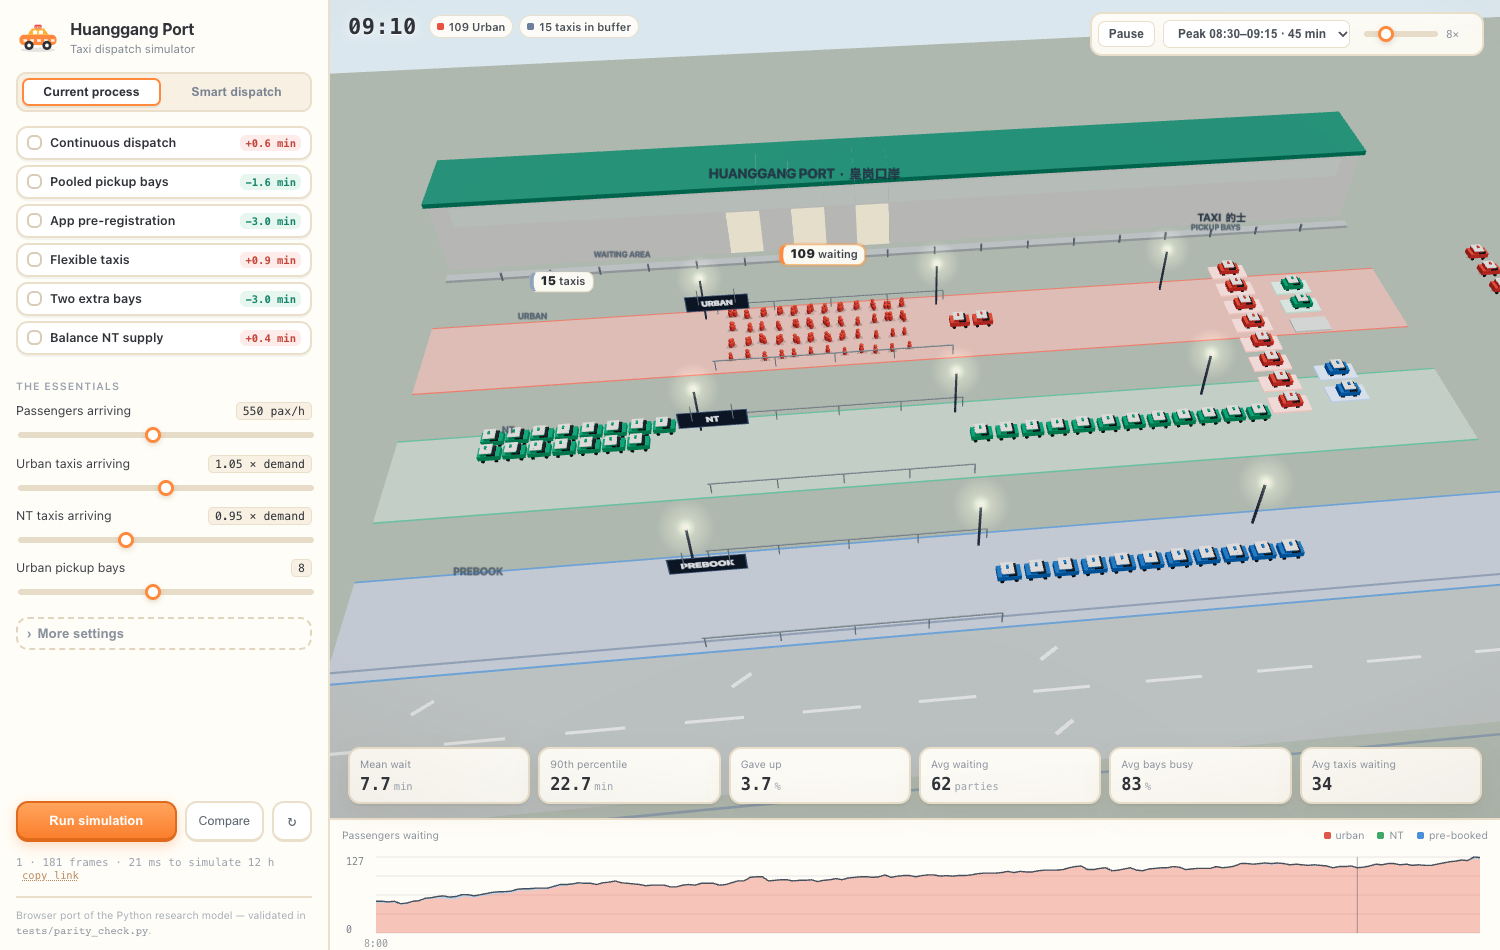
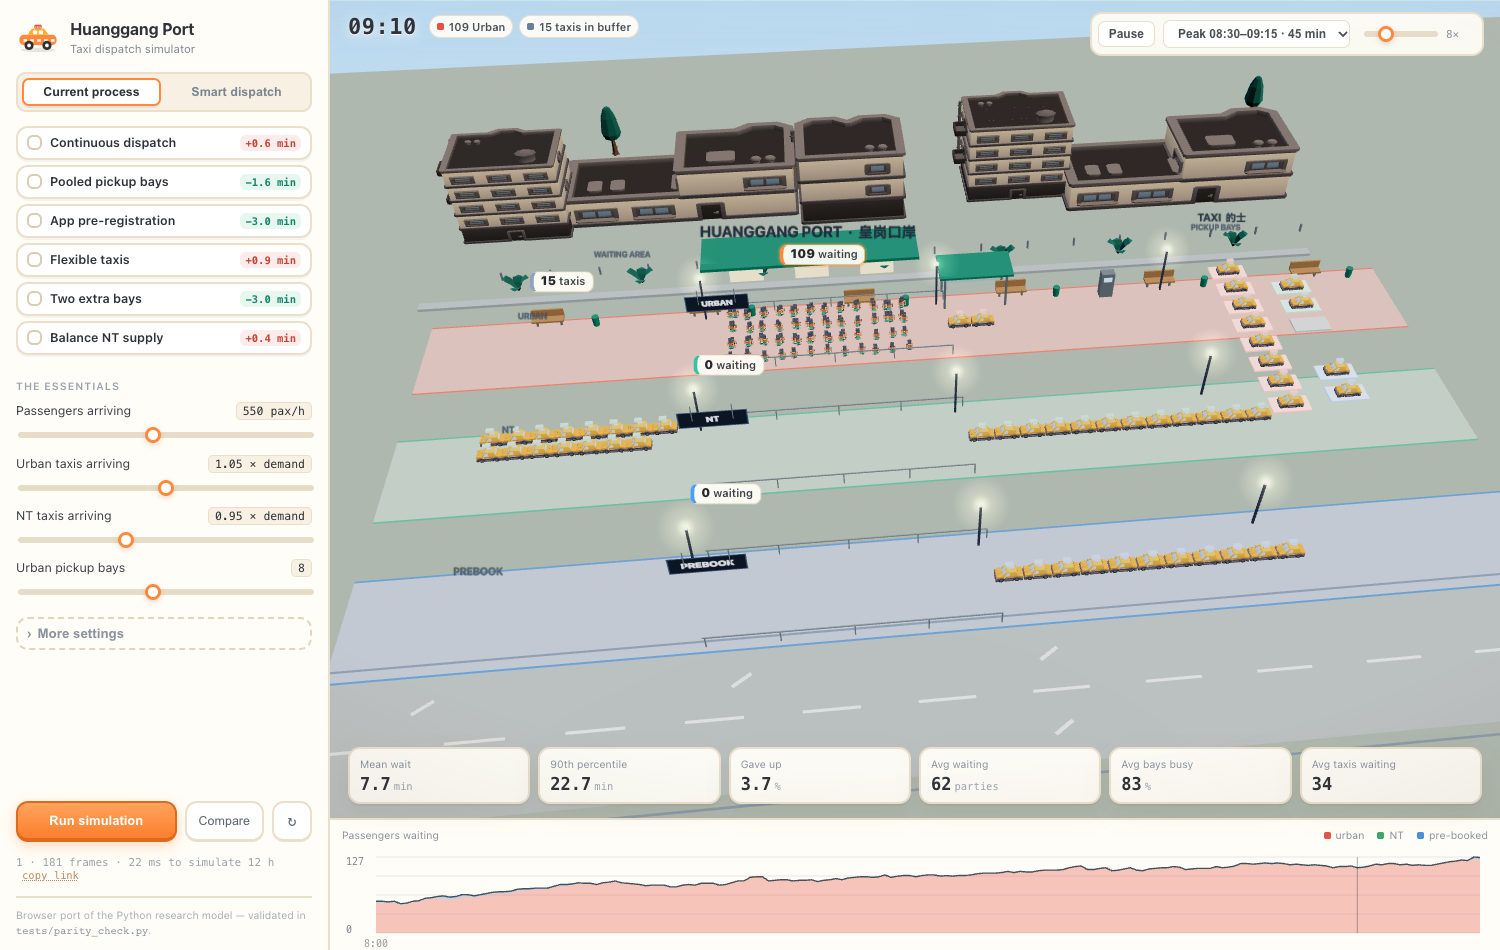
Sky, street furniture, taxi class signs, toy walk
- gradient sky + drifting cloud billboards
- benches, bins, waiting shelter and a ticket machine along the terminal
- coloured roof sign per taxi class (the model itself is one colour)
- passengers get a bob + sway + forward lean instead of sliding
- portrait camera pulled back; docs screenshot refreshed

diff --git a/web/js/scene.js b/web/js/scene.js
@@ -16,7 +16,7 @@ import {
   CLS, CLS_COLOR, LANES, EXIT_X, TAXI, TERMINAL,
   bufferPos, standPos, bayPos, queuePos, baySlots, doorPos,
 } from "./layout.js";
-import { glowTexture, signTexture } from "./textures.js";
+import { glowTexture, signTexture, daySkyTexture, cloudTexture } from "./textures.js";
 import { instances } from "./assets.js";
 
 const TAXI_CAP = 72;
@@ -108,8 +108,9 @@ export class Scene3D {
     this.renderer.toneMappingExposure = 1.08;
 
     this.scene = new THREE.Scene();
-    this.scene.background = new THREE.Color(0xdbe7ee);
-    this.scene.fog = new THREE.Fog(0xdbe7ee, 230, 340);
+    this.scene.background = daySkyTexture();
+    this.scene.fog = new THREE.Fog(0xe3eef5, 190, 320);
+    this.clouds = [];
 
     this.camera = new THREE.PerspectiveCamera(40, 1, 0.1, 400);
     this.target = new THREE.Vector3(22, 1.2, 11);
@@ -183,6 +184,17 @@ export class Scene3D {
     this.paxInst = A?.people ? A.people.map((p) => instances(p, PAX_CAP, this.root)) : null;
 
     this.taxiShadow = this._pool(this.geo.shadow, this.mat.shadow, TAXI_CAP);
+    // coloured roof sign: carries the class colour now that the taxi is a model
+    this.signMesh = new THREE.InstancedMesh(
+      new THREE.BoxGeometry(0.34, 0.11, 0.2),
+      new THREE.MeshStandardMaterial({ color: 0xffffff, emissive: 0xffffff, emissiveIntensity: 0.45, roughness: 0.5 }),
+      TAXI_CAP
+    );
+    this.signMesh.instanceMatrix.setUsage(THREE.DynamicDrawUsage);
+    this.signMesh.instanceColor = new THREE.InstancedBufferAttribute(new Float32Array(TAXI_CAP * 3), 3);
+    this.signMesh.frustumCulled = false;
+    this.signMesh.count = 0;
+    this.root.add(this.signMesh);
     this.paxShadow = [0, 1, 2].map(() => this._pool(this.geo.blob, this.mat.shadow, PAX_CAP));
 
     if (this.taxiInst && this.paxInst) return;   // models cover everything
@@ -284,7 +296,7 @@ export class Scene3D {
     this.quality = q;
     this.maxDpr = q === "low" ? 1 : 1.75;
     this.renderer.setPixelRatio(Math.min(window.devicePixelRatio || 1, this.maxDpr));
-    this.scene.fog = q === "low" ? null : new THREE.Fog(0xdbe7ee, 230, 340);
+    this.scene.fog = q === "low" ? null : new THREE.Fog(0xe3eef5, 190, 320);
     this.resize();
   }
 
@@ -298,7 +310,7 @@ export class Scene3D {
     if (this.wasPortrait !== portrait) {
       this.wasPortrait = portrait;
       this.orbit = portrait
-        ? { theta: 2.78, phi: 0.94, radius: 46 }
+        ? { theta: 2.72, phi: 0.82, radius: 68 }
         : { theta: Math.PI / 2 + 0.1, phi: 0.78, radius: 52 };
     }
     this.portrait = portrait;
@@ -417,6 +429,8 @@ export class Scene3D {
     this._buildTerminal();
     this._buildRoad();
     this._buildProps();
+    this._buildSky();
+    this._buildStreetFurniture();
     this._buildAssets();
     this._buildPools();
 
@@ -489,6 +503,80 @@ export class Scene3D {
         this.root.add(lamp);
       }
     }
+  }
+
+  /** Drifting billboard clouds above the terminal. */
+  _buildSky() {
+    this.clouds.forEach((c) => this.root.remove(c.sprite));
+    this.clouds = [];
+    if (this.quality === "low") return;
+    const tex = cloudTexture();
+    const spots = [
+      [-14, 13, -30, 16], [8, 16, -38, 20], [28, 12, -34, 15],
+      [46, 17, -42, 22], [62, 14, -30, 17], [20, 19, -50, 24],
+    ];
+    for (const [x, y, z, scale] of spots) {
+      const sprite = new THREE.Sprite(
+        new THREE.SpriteMaterial({ map: tex, transparent: true, opacity: 0.85, depthWrite: false })
+      );
+      sprite.position.set(x, y, z);
+      sprite.scale.set(scale, scale * 0.5, 1);
+      this.root.add(sprite);
+      this.clouds.push({ sprite, speed: 0.15 + Math.random() * 0.2 });
+    }
+  }
+
+  /** Benches, bins, a shelter and a ticket machine — the street-level detail. */
+  _buildStreetFurniture() {
+    if (this.quality === "low") return;
+    const wood = new THREE.MeshStandardMaterial({ color: 0xb98a5e, roughness: 0.85 });
+    const metal = new THREE.MeshStandardMaterial({ color: 0x8d9aa8, roughness: 0.6, metalness: 0.25 });
+    const green = new THREE.MeshStandardMaterial({ color: 0x2f8f7a, roughness: 0.8 });
+    const glass = new THREE.MeshStandardMaterial({ color: 0xbfe0ea, transparent: true, opacity: 0.45, roughness: 0.2 });
+
+    const z0 = TERMINAL.y + TERMINAL.depth / 2 + 5.2;
+    for (let x = 4; x <= 44; x += 8) {
+      // bench
+      const seat = new THREE.Mesh(box(1.6, 0.1, 0.5), wood);
+      seat.position.set(x, 0.42, z0);
+      this.root.add(seat);
+      const back = new THREE.Mesh(box(1.6, 0.45, 0.09), wood);
+      back.position.set(x, 0.66, z0 - 0.22);
+      this.root.add(back);
+      for (const dx of [-0.6, 0.6]) {
+        const leg = new THREE.Mesh(box(0.1, 0.42, 0.1), metal);
+        leg.position.set(x + dx, 0.21, z0);
+        this.root.add(leg);
+      }
+      // bin
+      const bin = new THREE.Mesh(new THREE.CylinderGeometry(0.18, 0.16, 0.55, 10), green);
+      bin.position.set(x + 2.4, 0.28, z0 + 0.2);
+      this.root.add(bin);
+    }
+
+    // waiting shelter
+    const sx = 26;
+    for (const dx of [-1.6, 1.6]) {
+      for (const dz of [-0.7, 0.7]) {
+        const post = new THREE.Mesh(box(0.1, 2.1, 0.1), metal);
+        post.position.set(sx + dx, 1.05, z0 + dz);
+        this.root.add(post);
+      }
+    }
+    const roof = new THREE.Mesh(box(3.8, 0.12, 2.0), green);
+    roof.position.set(sx, 2.15, z0);
+    this.root.add(roof);
+    const panel = new THREE.Mesh(new THREE.PlaneGeometry(3.2, 1.6), glass);
+    panel.position.set(sx, 1.3, z0 - 0.75);
+    this.root.add(panel);
+
+    // ticket machine
+    const machine = new THREE.Mesh(box(0.7, 1.5, 0.45), metal);
+    machine.position.set(33, 0.75, z0 + 0.4);
+    this.root.add(machine);
+    const screen = new THREE.Mesh(new THREE.PlaneGeometry(0.45, 0.3), new THREE.MeshBasicMaterial({ color: 0x9fd8ff }));
+    screen.position.set(33, 1.15, z0 + 0.63);
+    this.root.add(screen);
   }
 
   /** The taxi approach road: fills the foreground and explains the entry flow. */
@@ -852,6 +940,9 @@ export class Scene3D {
       }
       m.compose(new THREE.Vector3(e.x, 0.012, e.z), new THREE.Quaternion(), new THREE.Vector3(1, 1, 1));
       this.taxiShadow.setMatrixAt(n, m);
+      m.compose(new THREE.Vector3(e.x, 0.86, e.z), q, new THREE.Vector3(1, 1, 1));
+      this.signMesh.setMatrixAt(n, m);
+      this.signMesh.setColorAt(n, col.setHex(CLS_COLOR[e.cls] || 0xffffff));
       n++;
     }
     if (this.taxiInst) {
@@ -866,6 +957,9 @@ export class Scene3D {
     }
     this.taxiShadow.count = n;
     this.taxiShadow.instanceMatrix.needsUpdate = true;
+    this.signMesh.count = n;
+    this.signMesh.instanceMatrix.needsUpdate = true;
+    if (this.signMesh.instanceColor) this.signMesh.instanceColor.needsUpdate = true;
 
     /* --- people --- */
     const counts = [0, 0, 0];
@@ -906,12 +1000,18 @@ export class Scene3D {
       const c = e.cls;
       const i = counts[c];
       if (i >= PAX_CAP) continue;
-      const bob = e.moving ? Math.abs(Math.sin(this.time * 7.5 + id)) * 0.03 : 0;
+      // toy-like walk: vertical bob, lateral sway and a forward lean
+      const phase = this.time * 9 + id * 0.7;
+      const bob = e.moving ? Math.abs(Math.sin(phase)) * 0.045 : 0;
+      const sway = e.moving ? Math.sin(phase * 0.5) * 0.05 : 0;
+      const lean = e.moving ? -0.09 : 0;
       const variety = 0.94 + (((id * 13) % 7) / 7) * 0.12;
       const scale = Math.max(0.05, Math.min(1, e.fade)) * variety;
       // character models face -Z, so add PI to the heading
-      q.setFromAxisAngle(up, (e.yaw || 0) + Math.PI);
-      m.compose(new THREE.Vector3(e.x, 0.01 + bob, e.z), q, new THREE.Vector3(scale, scale, scale));
+      const heading = (e.yaw || 0) + Math.PI;
+      q.setFromEuler(new THREE.Euler(lean, heading, 0, "YXZ"));
+      const side = new THREE.Vector3(Math.cos(heading), 0, -Math.sin(heading)).multiplyScalar(sway);
+      m.compose(new THREE.Vector3(e.x + side.x, 0.01 + bob, e.z + side.z), q, new THREE.Vector3(scale, scale, scale));
       if (this.paxInst) this.paxInst[c].set(i, m);
       else this.paxMesh[c].setMatrixAt(i, m);
       m.compose(new THREE.Vector3(e.x, 0.015, e.z), new THREE.Quaternion(), new THREE.Vector3(scale * 0.8, scale, 1));
@@ -928,6 +1028,12 @@ export class Scene3D {
       }
       this.paxShadow[c].count = counts[c];
       this.paxShadow[c].instanceMatrix.needsUpdate = true;
+    }
+
+    /* --- clouds --- */
+    for (const c of this.clouds) {
+      c.sprite.position.x += c.speed * dt;
+      if (c.sprite.position.x > 78) c.sprite.position.x = -26;
     }
 
     /* --- ripples --- */

diff --git a/web/js/textures.js b/web/js/textures.js
@@ -156,3 +156,36 @@ export function signTexture(text, color = "#e9f2ff") {
   tex.anisotropy = 4;
   return tex;
 }
+
+
+/** Soft daytime sky: pale blue at the top, warm haze at the horizon. */
+export function daySkyTexture() {
+  return make(16, 256, (g, w, h) => {
+    const grad = g.createLinearGradient(0, 0, 0, h);
+    grad.addColorStop(0.0, "#b9d8ee");
+    grad.addColorStop(0.55, "#d7e8f4");
+    grad.addColorStop(1.0, "#eef4f2");
+    g.fillStyle = grad;
+    g.fillRect(0, 0, w, h);
+  }, { repeat: [1, 1] });
+}
+
+/** Puffy cloud billboard (three overlapping blobs). */
+export function cloudTexture() {
+  return make(256, 128, (g, w, h) => {
+    const blob = (cx, cy, r) => {
+      const grad = g.createRadialGradient(cx, cy, r * 0.2, cx, cy, r);
+      grad.addColorStop(0, "rgba(255,255,255,0.95)");
+      grad.addColorStop(0.6, "rgba(255,255,255,0.75)");
+      grad.addColorStop(1, "rgba(255,255,255,0)");
+      g.fillStyle = grad;
+      g.beginPath();
+      g.arc(cx, cy, r, 0, Math.PI * 2);
+      g.fill();
+    };
+    blob(90, 74, 46);
+    blob(140, 62, 54);
+    blob(186, 78, 38);
+    blob(64, 82, 30);
+  }, { repeat: [1, 1] });
+}
